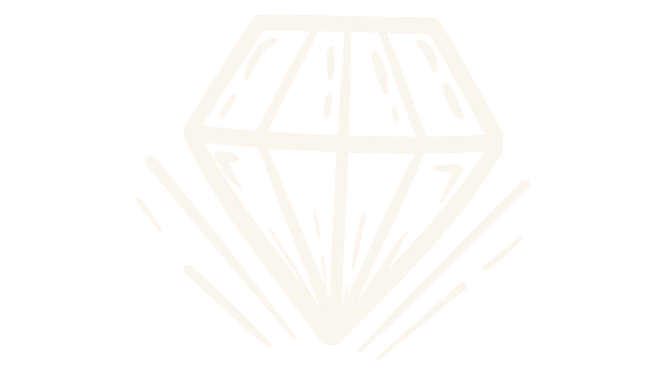
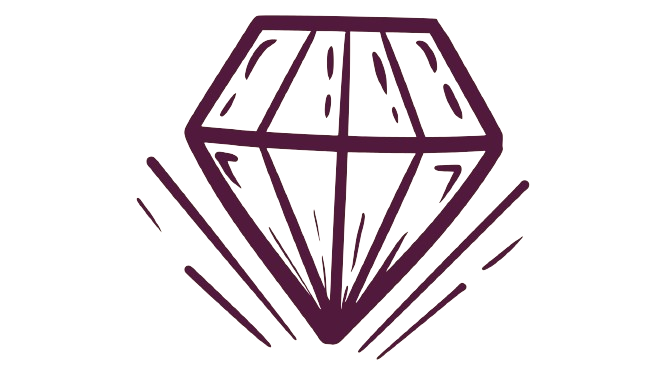
About: change style - WIP change design

diff --git a/src/components/About/styles.scss b/src/components/About/styles.scss
@@ -8,38 +8,22 @@
 	flex-flow: row wrap;
 	justify-content: center;
 	align-items: flex-start;
-	background-image: linear-gradient(to bottom, #511a3c,#511a3c, #802e4a, #af4852, #d76a52, #f79250);
-	/* Compense la hauteur de l'en-tête pour centrer le container*/
+	background-image: url('../../assets/images/hero-background.png');
+	padding: 1rem;
+
 	position: relative;
 	z-index: 1;
-
-	padding: 1rem;
 
 	@include mixin.breakpoint(tablet) {
 		padding: 2rem;
 	}
+
 	@include mixin.breakpoint(desktop) {
 		padding: 3rem;
 		justify-content: center;
 		align-items: center;
 		gap: 2rem;
 	}
-}
-
-.section-about__scalopped-border-top {
-	position: absolute;
-	top: -40px;
-	left: 0;
-	height: vars.$scallopedBorderHeight;
-	width: 100%;
-	background-color: vars.$primary-color;
-
-	// scalloped border
-	--mask:
-		linear-gradient(0deg, #0000 160px, #000 0) 0 80px,
-		radial-gradient(80px, #000 98%, #0000) 50%/128px 160px repeat space;
-	-webkit-mask: var(--mask);
-	mask: var(--mask);
 }
 
 .about {
@@ -49,25 +33,24 @@
 	justify-content: center;
 	align-items: center;
 	gap: 3rem;
+	min-height: calc(100vh - 12rem);
+	margin-top: vars.$headerHeight;
+	margin-bottom: calc(vars.$gemsImgAboutSectionMobile / 3);
 
-	margin-top: calc(vars.$scallopedBorderHeight/ 2);
-	margin-bottom: calc(vars.$gemsImgAboutSectionMobile );
+	@include mixin.breakpoint(tablet) {}
 
-	@include mixin.breakpoint(tablet) {
-	}
 	@include mixin.breakpoint(desktop) {
 		max-width: 90%;
 		flex-direction: row;
 		align-items: flex-start;
 		gap: 4rem;
-		margin-bottom: 4rem;
+		margin-bottom: 0;
 		margin-right: 2rem;
 		gap: 2rem;
 	}
-	
+
 	@include mixin.breakpoint(desktopXL) {
 		max-width: 80%;
-		margin-bottom: 7rem;
 		margin-right: 4rem;
 	}
 
@@ -75,7 +58,7 @@
 		display: flex;
 		flex-flow: row wrap;
 		justify-content: center;
-		gap:1rem;
+		gap: 1rem;
 		width: 100%;
 
 		@include mixin.breakpoint(desktop) {
@@ -85,18 +68,20 @@
 		&__img {
 			object-fit: cover;
 			max-width: 80%;
+
 			@include mixin.breakpoint(desktop) {
-				max-width: 20%;			
+				max-width: 20%;
 				min-height: 300px;
 				min-width: 300px;
 			}
+
 			@include mixin.breakpoint(desktopXL) {
 				max-width: 400px;
-				max-height: 400px;				
+				max-height: 400px;
 			}
-
 		}
-		&__title{
+
+		&__title {
 			flex-grow: 1;
 			display: flex;
 			flex-direction: column;
@@ -114,46 +99,23 @@
 		gap: 1.5rem;
 		border-radius: 25px;
 		padding: 3rem 2rem;
-
 		margin-bottom: 150px;
-
 		background-color: vars.$white-fade-transparent;
-					--mask: 
-			linear-gradient(#000 0 0) 50%/calc(100% - 12px) calc(100% - 12px) no-repeat,
-			radial-gradient(6px,#0000 98%,#000) 0 -6px/11.1px 12px round no-repeat,
-			radial-gradient(6px,#0000 98%,#000) 0 calc(100% + 6px)/11.1px 12px round no-repeat,
-			radial-gradient(6px,#0000 98%,#000) -6px 0/12px 11.1px no-repeat round,
-			radial-gradient(6px,#0000 98%,#000) calc(100% + 6px) 0/12px 11.1px no-repeat round;
-		clip-path: polygon(12px 0,calc(100% - 12px) 0,100% 12px,100% calc(100% - 12px),calc(100% - 12px) 100%,12px 100%,0 calc(100% - 12px),0 12px);
-		-webkit-mask: var(--mask);
-						mask: var(--mask);
 
 		@include mixin.breakpoint(desktop) {
+			margin-bottom: 0;
 			padding: 4rem 5rem 4rem;
-			max-width: 80%;		
-		}
-
-		@include mixin.breakpoint(desktop) {
-		
+			max-width: 80%;
 		}
 
 		&__text {
 			text-align: justify;
-		}
 
-		&__img {
-			width: 100px;
-			height: 50px;
-
-			@include mixin.breakpoint(desktop){
-				width: 140px;
-				height: 70px;
-			}
-			@include mixin.breakpoint(desktopXL){
-				width: 160px;
-				height: 80px;
+			@include mixin.breakpoint(desktop) {
+				text-align: left;
 			}
 		}
+
 
 		&__links {
 			display: flex;
@@ -165,10 +127,39 @@
 
 			@include mixin.breakpoint(desktop) {
 				flex-direction: row;
+				align-items: flex-end;
 			}
+
+			&__contact-link {
+				display: flex;
+				flex-direction: column;
+				justify-content: center;
+				align-items: center;
+
+				&__img {
+					width: 100px;
+					height: 50px;
+
+					@include mixin.breakpoint(desktop) {
+						width: 120px;
+						height: 60px;
+						margin-bottom: -6px;
+					}
+				}
+			}
+
+			&__contact-link a {
+				width: 100%;
+
+				@include mixin.breakpoint(desktop) {
+					width: auto;
+
+				}
+
+			}
+
 		}
 	}
-
 }
 
 .section-about__about-background-image {
@@ -176,23 +167,23 @@
 	bottom: 12px;
 
 	z-index: -1;
-	background-image: url('../../assets/images/gems-white.png');
+	background-image: url('../../assets/images/gems-purple.png');
 	background-size: contain;
 	background-repeat: no-repeat;
 
-	width: 262px;
+	width: 270px;
 	height: vars.$gemsImgAboutSectionMobile;
 
 	@include mixin.breakpoint(desktop) {
 		bottom: 12px;
 		left: 24px;
-		width: 367px;
+		width: 370px;
 		height: 375px;
 	}
 
 	@include mixin.breakpoint(desktopXL) {
 		left: 64px;
-		width: 467px;
-		height: 475px;
+		width: 450px;
+		height: 455px;
 	}
 }

diff --git a/src/components/About/index.tsx b/src/components/About/index.tsx
@@ -7,7 +7,6 @@ import './styles.scss';
 function About() {
   return (
     <section id="sectionAbout" className="section-about">
-      <div className="section-about__scalopped-border-top" />
       <div className="about">
         <div className="about__header">
           <img className="about__header__img" src={portraitImage} alt="portrait de profil version animée d'une fille avec un caque audio" />
@@ -15,16 +14,25 @@ function About() {
         <div className="about__container">
           <h2 className="about__header__title">À propos</h2>
           <p className="about__container__text">
-            <em className="font-accent__text-offWhite"> Tout développeur &quot; senior&quot; a été un &quot;junior&quot; qui a pu monter en compétences et avoir de l'expérience en entreprise.</em>
+            <em className="font-accent__text"> Tout développeur &quot; senior&quot; a été un &quot;junior&quot; qui a pu monter en compétences et avoir de l'expérience en entreprise.</em>
           </p>
           <p className="about__container__text">
             Je suis à la recherche d'une opportunité professionnelle afin de m'insérer dans une équipe dynamique que ce soit en alternance ou en CDI.
           </p>
-
           <p className="about__container__text">
             Les compétences ne sont pas statiques, elles évoluent constamment. Bien qu'encore qu'à l'état brut, mes compétences, peuvent être façonnées et polies en entreprise.
           </p>
           <div className="about__container__links">
+            <div className="about__container__links__contact-link">
+              <img src={diamondImg} alt="dessin diamant" className="about__container__links__contact-link__img" />
+              <MyLink
+                label="me contacter"
+                path="https://www.linkedin.com/in/gabrielle-savary/https://www.linkedin.com/in/gabrielle-savary/"
+                target="_blank"
+                classColor="link--primary"
+                iconName="linkedin"
+              />
+            </div>
             <MyLink
               label="Télécharger mon cv"
               path={CV}
@@ -39,21 +47,10 @@ function About() {
               classColor="link--secondary"
               iconName="github"
             />
-            <MyLink
-              label="me contacter"
-              path="https://www.linkedin.com/in/gabrielle-savary/https://www.linkedin.com/in/gabrielle-savary/"
-              target="_blank"
-              classColor="link--primary"
-              iconName="linkedin"
-
-            />
           </div>
-          <img src={diamondImg} alt="dessin diamant" className="about__container__img" />
-
         </div>
       </div>
       <div className="section-about__about-background-image" />
-
     </section>
   );
 }

diff --git a/src/components/Header/index.tsx b/src/components/Header/index.tsx
@@ -30,7 +30,7 @@ function Header() {
       />
       <nav className={classnameHeaderNavbar}>
         <ul className="header__navbar__menu-links">
-          <li><a href="#sectionPortfolio" className="header__navbar__menu-links__link">Mes projets</a></li>
+          <li><a href="#sectionPortfolioProjects" className="header__navbar__menu-links__link">Mes projets</a></li>
           <li><a href="#sectionAbout" className="header__navbar__menu-links__link">À propos</a></li>
           <li><div className="header__navbar__menu-links__separator" /></li>
           <li>

diff --git a/src/styles/_vars.scss b/src/styles/_vars.scss
@@ -36,6 +36,5 @@ $text-font:"Noto Sans Mono", monospace;
 
 //TAILLES
 $headerHeight: 6rem;
-$gemsImgAboutSectionMobile: 270px;
-$scallopedBorderHeight: 170px;
+$gemsImgAboutSectionMobile: 275px;
 
